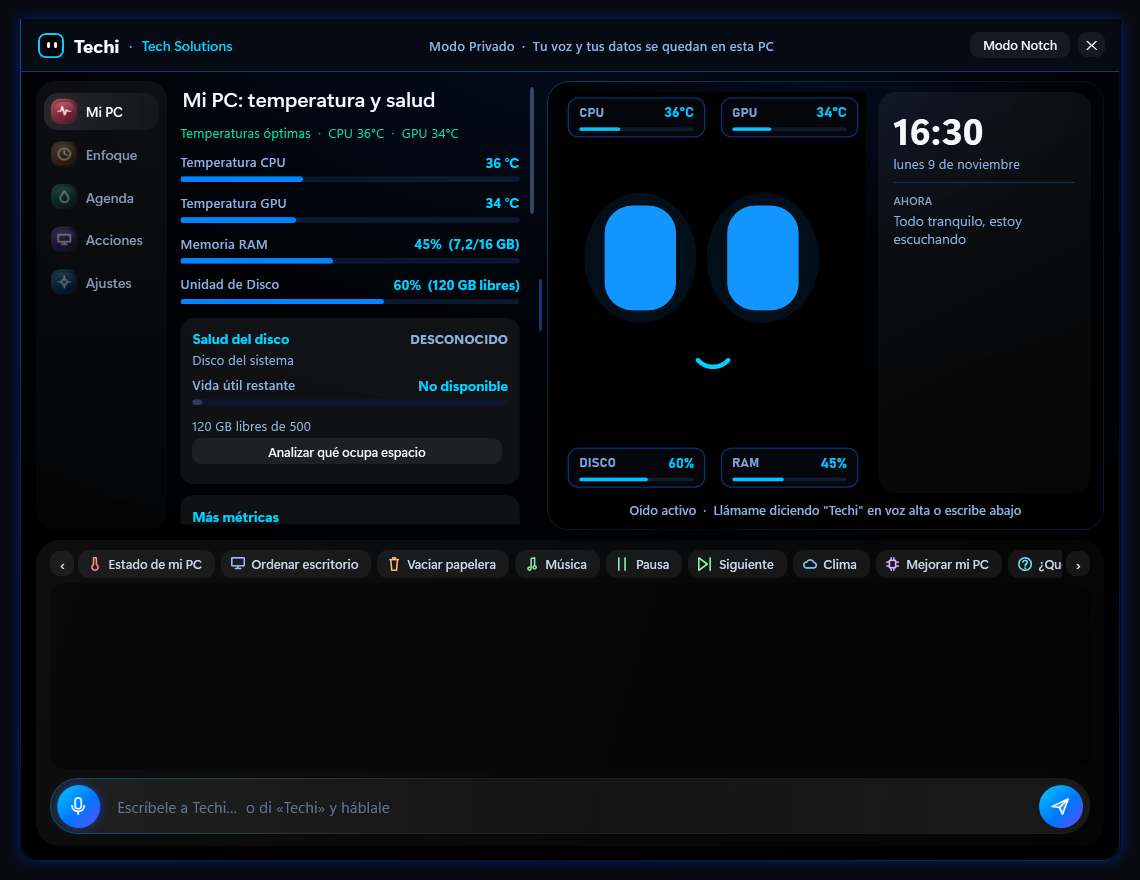
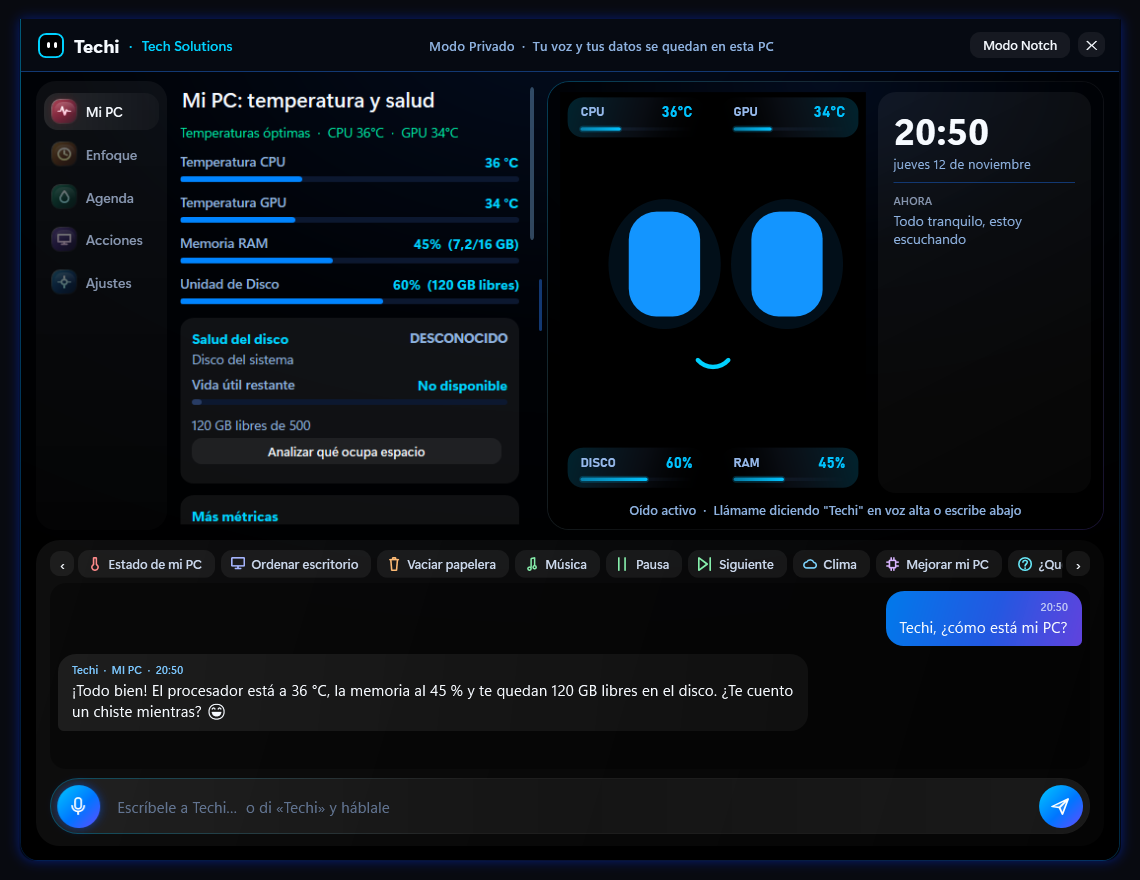
Add files via upload

diff --git a/index.html b/index.html
@@ -21,9 +21,11 @@
 }
 *{box-sizing:border-box;margin:0;padding:0}
 html{scroll-behavior:smooth}
+/* Los enlaces internos dejan espacio para la barra fija de arriba */
+section,[id^="dl-"]{scroll-margin-top:84px}
 body{background:var(--bg);color:var(--text);font-family:Inter,system-ui,Segoe UI,Roboto,sans-serif;line-height:1.6;overflow-x:hidden;-webkit-font-smoothing:antialiased}
 a{color:inherit;text-decoration:none}
-img{max-width:100%;display:block}
+img{max-width:100%;height:auto;display:block}
 .wrap{width:min(1140px,100% - 32px);margin-inline:auto}
 h1,h2,h3{font-family:Sora,Inter,sans-serif;line-height:1.12;letter-spacing:-.02em}
 h2{font-size:clamp(28px,4.4vw,46px);font-weight:800}
@@ -129,16 +131,47 @@ nav .wrap{display:flex;align-items:center;justify-content:space-between;height:6
 /* ---------- android ---------- */
 .android{display:grid;grid-template-columns:1fr 1fr;gap:48px;align-items:center}
 @media (max-width:820px){.android{grid-template-columns:1fr}}
-.phone{width:min(300px,80%);margin-inline:auto;aspect-ratio:9/19;border-radius:44px;background:#0b0f19;border:2px solid #1f2a44;position:relative;overflow:hidden;box-shadow:0 40px 100px rgba(30,144,255,.15)}
-.phone .island{position:absolute;top:14px;left:50%;transform:translateX(-50%);height:30px;width:96px;border-radius:20px;background:#000;display:flex;align-items:center;justify-content:center;gap:8px;transition:all .7s cubic-bezier(.2,.8,.2,1);overflow:hidden}
-.phone.open .island{width:86%;height:74px;border-radius:28px}
-.island .dot{width:10px;height:10px;border-radius:50%;background:#1a1a1a;border:2px solid #222;flex:none}
-.island .mini-eyes{display:flex;gap:6px}
-.island .mini-eyes i{width:9px;height:13px;border-radius:4px;background:var(--blue);animation:blink 4s infinite}
-.island .txt{font-size:12.5px;color:var(--soft);white-space:nowrap;opacity:0;transition:opacity .4s .3s}
-.phone.open .island .txt{opacity:1}
-.phone .screen{position:absolute;inset:110px 18px 30px;display:grid;gap:12px;align-content:start}
-.phone .screen div{height:54px;border-radius:14px;background:rgba(255,255,255,.04);border:1px solid var(--line)}
+/* v1.9.1 · Teléfono con la cápsula REAL de Techi en Android, medida sobre capturas del teléfono (716×1599):
+   cerrada = píldora negra bajo la barra de arriba (15 % del ancho) con los dos ojitos al centro;
+   abierta = 95 % del ancho y 31 % de alto: halos azul oscuro, ojos cian que escuchan con ondas, y el texto.
+   Todo se mide en «cqw» (porcentaje del ancho de la pantalla) para que las proporciones sean exactas. */
+.phone{width:min(300px,82%);margin-inline:auto;border-radius:46px;padding:9px;background:linear-gradient(160deg,#2a3550,#0d1220 40%,#1a2236);position:relative;box-shadow:0 40px 100px rgba(124,58,237,.22),inset 0 0 0 1px rgba(255,255,255,.08)}
+.phone .scr{position:relative;aspect-ratio:716/1599;border-radius:38px;overflow:hidden;container-type:inline-size;
+  background:linear-gradient(180deg,#8b57e8 0%,#b059e8 45%,#c057d7 100%)}
+.phone .sbar{position:absolute;top:0;left:0;right:0;height:11cqw;display:flex;align-items:center;justify-content:space-between;padding:0 6.7cqw;font:500 3.7cqw/1 Inter,system-ui,sans-serif;color:#fff}
+.phone .sicons{display:flex;align-items:center;gap:1.4cqw;transition:opacity .25s}
+.phone .sicons svg{height:3.6cqw;width:auto}
+.phone .bat{font:600 2.6cqw/1 Inter,sans-serif;color:#7c4ddb;background:#fff;border-radius:1.2cqw;padding:.4cqw 1.2cqw}
+.phone .micdot{position:absolute;right:6cqw;top:3.3cqw;width:4.6cqw;height:4.6cqw;border-radius:50%;background:#22c55e;display:grid;place-items:center;opacity:0;transition:opacity .25s}
+.phone .micdot svg{width:2.6cqw;height:2.6cqw}
+.phone.listen .micdot{opacity:1}
+.phone.listen .sicons{opacity:0}
+.isl{position:absolute;top:11cqw;left:50%;transform:translateX(-50%);width:15.1cqw;height:5.6cqw;border-radius:2.8cqw;background:#000;z-index:3;overflow:hidden;
+  transition:width .5s cubic-bezier(.2,.85,.25,1),height .5s cubic-bezier(.2,.85,.25,1),border-radius .5s}
+.phone.open .isl{width:95cqw;height:31.1cqw;border-radius:8.5cqw}
+.isl .se{position:absolute;top:50%;left:50%;transform:translate(-50%,-50%);display:flex;gap:1.25cqw;transition:opacity .2s}
+.isl .se i{width:1.6cqw;height:2.9cqw;border-radius:.8cqw;background:#1e90ff;animation:blink 4.8s infinite}
+.phone.listen .isl .se i{background:#1fd3ea}
+.phone.open .isl .se{opacity:0}
+.isl .big{position:absolute;inset:0;opacity:0;transition:opacity .25s}
+.phone.open .isl .big{opacity:1;transition-delay:.3s}
+.isl .bf{position:absolute;left:5.9cqw;top:7.8cqw;width:19.6cqw;height:18.2cqw}
+.isl .bf .e{fill:#1e90ff;transform-box:fill-box;transform-origin:center;animation:blink 4.8s infinite}
+.phone.listen .isl .bf .e{fill:#1fd3ea}
+.isl .bf .w{transform-box:fill-box;transform-origin:center;opacity:0}
+.phone.listen .isl .bf .w{opacity:1;animation:wave .7s ease-in-out infinite}
+.phone.listen .isl .bf .smile{opacity:0}
+.isl .bf .w:nth-child(2){animation-delay:.12s}.isl .bf .w:nth-child(3){animation-delay:.24s}.isl .bf .w:nth-child(4){animation-delay:.36s}.isl .bf .w:nth-child(5){animation-delay:.48s}
+@keyframes wave{0%,100%{transform:scaleY(.45)}50%{transform:scaleY(1.3)}}
+.isl .say{position:absolute;left:29.8cqw;right:5cqw;top:50%;transform:translateY(-50%);font:400 3.9cqw/1.3 Inter,system-ui,sans-serif;color:#fff;
+  display:-webkit-box;-webkit-line-clamp:3;-webkit-box-orient:vertical;overflow:hidden}
+/* pantalla de inicio (como la del teléfono: fondo, «Buscar» y el dock) */
+.phone .srch{position:absolute;left:50%;transform:translateX(-50%);bottom:29.9cqw;height:6.3cqw;padding:0 3.4cqw;border-radius:3.2cqw;background:rgba(255,255,255,.16);border:1px solid rgba(255,255,255,.22);display:flex;align-items:center;gap:1.6cqw;font:500 3.4cqw/1 Inter,sans-serif;color:#fff}
+.phone .srch svg{width:3.4cqw;height:3.4cqw}
+.phone .dock{position:absolute;left:4.6cqw;right:4.6cqw;bottom:6.4cqw;height:21.4cqw;border-radius:10.7cqw;background:rgba(255,255,255,.16);border:1px solid rgba(255,255,255,.2);display:flex;justify-content:space-around;align-items:center;padding:0 2.4cqw}
+.phone .dock .ap{width:13.4cqw;height:13.4cqw;border-radius:3.6cqw;background:rgba(255,255,255,.18);display:grid;place-items:center}
+.phone .dock .ap svg{width:9.6cqw;height:9.6cqw}
+.phone .navh{position:absolute;left:50%;transform:translateX(-50%);bottom:2.4cqw;width:33.5cqw;height:1.1cqw;border-radius:1cqw;background:rgba(255,255,255,.55)}
 .ashots{display:flex;justify-content:center;gap:22px;margin-top:56px;flex-wrap:wrap}
 .ashots img{width:min(250px,42vw);border-radius:28px;border:1px solid var(--line);box-shadow:0 30px 80px rgba(0,0,0,.5);transition:transform .4s}
 .ashots img:hover{transform:translateY(-6px)}
@@ -149,7 +182,9 @@ nav .wrap{display:flex;align-items:center;justify-content:space-between;height:6
 /* ---------- descargas ---------- */
 .dl{display:grid;grid-template-columns:1fr 1fr;gap:20px}
 @media (max-width:760px){.dl{grid-template-columns:1fr}}
-.dlc{background:linear-gradient(180deg,var(--card2),var(--bg2));border:1px solid var(--line);border-radius:26px;padding:32px;display:grid;gap:14px}
+.dlc{background:linear-gradient(180deg,var(--card2),var(--bg2));border:1px solid var(--line);border-radius:26px;padding:32px;display:grid;gap:14px;transition:border-color .4s,box-shadow .4s}
+/* Al llegar desde un botón «Descargar…», la tarjeta se ilumina un momento */
+.dlc.flash{border-color:rgba(34,211,238,.8);box-shadow:0 0 0 3px rgba(34,211,238,.25),0 20px 60px rgba(30,144,255,.3)}
 .dlc h3{font-size:24px}
 .dlc .ver{font-size:13px;color:var(--mute)}
 .dlc ul{display:grid;gap:6px;color:var(--soft);font-size:14px;padding-left:18px}
@@ -218,8 +253,8 @@ footer b{color:var(--text)}
       <h1 class="reveal d1" style="margin-top:14px">Tu compañero que <span class="grad">vive en tu PC</span> y en tu teléfono.</h1>
       <p class="lead reveal d2">Techi te escucha, te habla con voz natural, cuida tu computador, te recuerda las cosas, te pone música y te saca una risa. Y lo mejor: tu voz se entiende dentro de tu equipo, nunca se sube a internet.</p>
       <div class="cta reveal d3">
-        <a class="btn btn-main" href="#descargar">⬇ Descargar para Windows</a>
-        <a class="btn btn-ghost" href="#descargar">Descargar para Android</a>
+        <a class="btn btn-main" href="#dl-windows">⬇ Descargar para Windows</a>
+        <a class="btn btn-ghost" href="#dl-android">Descargar para Android</a>
       </div>
       <div class="badges reveal d4">
         <span class="badge"><b>Gratis</b> por ahora</span>
@@ -277,8 +312,8 @@ footer b{color:var(--text)}
       <p class="lead reveal d2">Una cápsula discreta arriba de la pantalla que se abre en una consola completa: temperatura de tu PC, agenda, acciones rápidas y chat.</p>
     </div>
     <div class="shots" style="grid-template-columns:1fr 1fr">
-      <img class="shot reveal" src="img/captura_mi_pc.png" alt="Pestaña Mi PC de Techi" loading="lazy">
-      <img class="shot reveal d1" src="img/captura_acciones.png" alt="Pestaña Acciones de Techi" loading="lazy">
+      <img class="shot reveal" src="img/captura_mi_pc.png" width="1140" height="880" alt="Pestaña Mi PC de Techi: temperaturas, memoria y disco, con una conversación en el chat" loading="lazy">
+      <img class="shot reveal d1" src="img/captura_agenda.png" width="1140" height="880" alt="Pestaña Agenda de Techi: agua del día y recordatorios" loading="lazy">
     </div>
   </div>
 </section>
@@ -286,9 +321,40 @@ footer b{color:var(--text)}
 <!-- ============ ANDROID ============ -->
 <section id="android">
   <div class="wrap android">
-    <div class="phone reveal" id="phone">
-      <div class="island"><span class="mini-eyes"><i></i><i></i></span><span class="txt">Te escucho… «llama a mamá»</span><span class="dot"></span></div>
-      <div class="screen"><div></div><div></div><div></div><div></div><div></div></div>
+    <div class="phone reveal" id="phone" aria-label="Techi en Android: la cápsula de arriba se abre, te escucha y responde">
+      <div class="scr">
+        <div class="sbar">
+          <span id="phTime">8:56</span>
+          <span class="sicons" aria-hidden="true">
+            <svg viewBox="0 0 24 18"><path d="M12 17.5 15.2 13.6a5 5 0 0 0-6.4 0z" fill="#fff"/><path d="M5.6 10.4a10 10 0 0 1 12.8 0l-1.9 2.3a7 7 0 0 0-9 0zM2.4 6.6a15 15 0 0 1 19.2 0l-1.9 2.3a12 12 0 0 0-15.4 0z" fill="#fff"/></svg>
+            <svg viewBox="0 0 24 18"><rect x="1" y="12" width="3.5" height="5" rx="1" fill="#fff"/><rect x="6.5" y="9" width="3.5" height="8" rx="1" fill="#fff"/><rect x="12" y="5.5" width="3.5" height="11.5" rx="1" fill="#fff" opacity=".55"/><rect x="17.5" y="2" width="3.5" height="15" rx="1" fill="#fff" opacity=".55"/></svg>
+            <span class="bat">58</span>
+          </span>
+        </div>
+        <span class="micdot" aria-hidden="true"><svg viewBox="0 0 24 24" fill="none" stroke="#fff" stroke-width="2.6" stroke-linecap="round"><path d="M12 3a3 3 0 0 0-3 3v6a3 3 0 0 0 6 0V6a3 3 0 0 0-3-3z"/><path d="M5 11a7 7 0 0 0 14 0M12 18v3"/></svg></span>
+        <div class="isl">
+          <span class="se"><i></i><i></i></span>
+          <div class="big">
+            <!-- Cara medida sobre la captura: halos, ojos y ondas en coordenadas de la pantalla de 716 px -->
+            <svg class="bf" viewBox="60 135 140 130" aria-hidden="true">
+              <ellipse cx="101.5" cy="193" rx="34.5" ry="52" fill="#07111d"/><ellipse cx="158.5" cy="193" rx="34.5" ry="52" fill="#07111d"/>
+              <rect class="e" x="83" y="155" width="37" height="76" rx="17"/><rect class="e" x="140" y="155" width="37" height="76" rx="17"/>
+              <path class="smile" d="M119 246 Q130 256 141 246" stroke="#1fd3ea" stroke-width="5" fill="none" stroke-linecap="round"/>
+              <g fill="#1fd3ea"><rect class="w" x="107.8" y="240" width="4.5" height="18" rx="2.25"/><rect class="w" x="117.8" y="240" width="4.5" height="18" rx="2.25"/><rect class="w" x="127.8" y="240" width="4.5" height="18" rx="2.25"/><rect class="w" x="137.8" y="240" width="4.5" height="18" rx="2.25"/><rect class="w" x="147.8" y="240" width="4.5" height="18" rx="2.25"/></g>
+            </svg>
+            <div class="say" id="phSay">Te escucho…</div>
+          </div>
+        </div>
+        <div class="srch" aria-hidden="true"><svg viewBox="0 0 24 24" fill="none" stroke="#fff" stroke-width="2.4" stroke-linecap="round"><circle cx="10.5" cy="10.5" r="6.5"/><path d="m20 20-4.8-4.8"/></svg>Buscar</div>
+        <div class="dock" aria-hidden="true">
+          <span class="ap"><svg viewBox="0 0 40 40"><circle cx="20" cy="20" r="15" fill="#3b82f6"/><path d="M5.5 20h29M20 5c5 4.5 5 25.5 0 30M20 5c-5 4.5-5 25.5 0 30" stroke="#fff" stroke-width="2.2" fill="none"/></svg></span>
+          <span class="ap"><svg viewBox="0 0 40 40"><path d="M13 7c1.6-.9 3.4 0 4.2 1.6l1.8 3.9c.6 1.3.3 2.8-.8 3.7l-1.6 1.3a17 17 0 0 0 6 6l1.3-1.6c.9-1.1 2.4-1.4 3.7-.8l3.9 1.8c1.6.8 2.5 2.6 1.6 4.2-1.5 2.9-4.7 4.4-7.8 3.6C17 28.6 11.4 23 9.3 15.1 8.5 12 10 8.6 13 7z" fill="#22c55e"/></svg></span>
+          <span class="ap"><svg viewBox="0 0 40 40"><circle cx="20" cy="20" r="15" fill="#111827"/><circle cx="20" cy="20" r="9" fill="#1e3a8a"/><circle cx="20" cy="20" r="5" fill="#0b1020"/><circle cx="17.5" cy="17.5" r="1.8" fill="#93c5fd"/></svg></span>
+          <span class="ap"><svg viewBox="0 0 40 40"><path d="M20 6c7.7 0 14 5.6 14 12.6S27.7 31.2 20 31.2c-1.6 0-3.2-.2-4.6-.7L8 33l2.1-6.2C7.6 24.4 6 21.6 6 18.6 6 11.6 12.3 6 20 6z" fill="#22c55e"/><path d="M14 17h12M14 21.5h8" stroke="#fff" stroke-width="2.2" stroke-linecap="round"/></svg></span>
+          <span class="ap"><svg viewBox="0 0 40 40"><g transform="translate(20 20)"><ellipse rx="5" ry="11" cy="-7" fill="#f43f5e" opacity=".9"/><ellipse rx="5" ry="11" cy="-7" fill="#f59e0b" opacity=".9" transform="rotate(72)"/><ellipse rx="5" ry="11" cy="-7" fill="#22c55e" opacity=".9" transform="rotate(144)"/><ellipse rx="5" ry="11" cy="-7" fill="#3b82f6" opacity=".9" transform="rotate(216)"/><ellipse rx="5" ry="11" cy="-7" fill="#a855f7" opacity=".9" transform="rotate(288)"/></g></svg></span>
+        </div>
+        <span class="navh" aria-hidden="true"></span>
+      </div>
     </div>
     <div>
       <span class="eyebrow reveal">Android</span>
@@ -303,10 +369,11 @@ footer b{color:var(--text)}
     </div>
   </div>
   <div class="wrap ashots">
-    <img class="reveal" src="img/android_capsula.jpg" alt="Techi en Android: la cápsula de la cámara abierta, escuchando, y el widget" loading="lazy" onerror="this.remove()">
-    <img class="reveal d1" src="img/android_inicio.jpg" alt="Techi en Android: pantalla principal con el estado del teléfono" loading="lazy" onerror="this.remove()">
-    <img class="reveal d2" src="img/android_agenda.jpg" alt="Techi en Android: agua del día y recordatorios" loading="lazy" onerror="this.remove()">
-    <img class="reveal d3" src="img/android_enfoque.jpg" alt="Techi en Android: pomodoro, temporizador y alarma" loading="lazy" onerror="this.remove()">
+    <img class="reveal" src="img/android_capsula_cerrada.jpg" width="716" height="1599" alt="Techi en Android: la pildorita de Techi arriba de la pantalla de inicio" loading="lazy">
+    <img class="reveal d1" src="img/android_capsula.jpg" width="716" height="1599" alt="Techi en Android: la cápsula abierta diciendo «Te escucho…»" loading="lazy">
+    <img class="reveal d2" src="img/android_inicio.jpg" width="716" height="1599" alt="Techi en Android: pantalla principal con el estado del teléfono" loading="lazy">
+    <img class="reveal d3" src="img/android_agenda.jpg" width="716" height="1599" alt="Techi en Android: agua del día y recordatorios" loading="lazy">
+    <img class="reveal d4" src="img/android_enfoque.jpg" width="716" height="1599" alt="Techi en Android: pomodoro, temporizador y alarma" loading="lazy">
   </div>
 </section>
 
@@ -319,14 +386,14 @@ footer b{color:var(--text)}
       <p class="lead reveal d2">Gratis. Se actualiza solo: cada versión nueva viene firmada por Tech Solutions y Techi revisa la firma antes de instalarla.</p>
     </div>
     <div class="dl">
-      <div class="dlc reveal">
+      <div class="dlc reveal" id="dl-windows">
         <h3>🖥 Windows</h3>
         <span class="ver" id="verWin">Windows 10 y 11</span>
         <ul><li>Descomprime el .zip y abre <b>Techi.exe</b>.</li><li>Funciona sin internet (clima y búsquedas lo usan).</li><li>Unos 350 MB; 8 GB de RAM recomendados.</li></ul>
         <a class="btn btn-main" id="dlWin" href="#">Descargar para Windows</a>
         <span class="note">Si Windows dice «protegió su PC»: «Más información» › «Ejecutar de todas formas». Pasa con programas nuevos sin firma de pago.</span>
       </div>
-      <div class="dlc reveal d1">
+      <div class="dlc reveal d1" id="dl-android">
         <h3>📱 Android</h3>
         <span class="ver" id="verAnd">Android 8 o superior</span>
         <ul><li>Abre el .apk descargado y toca <b>Instalar</b>.</li><li>Abre Techi y toca <b>Permitir</b> en cada ventana. ¡Listo!</li><li>Pesa unos 46 MB porque trae su propio oído.</li></ul>
@@ -478,13 +545,65 @@ const FEATS = [
 document.getElementById("feats").innerHTML = FEATS.map((f, i) =>
   `<div class="feat reveal d${i % 3 + 1}">${f[0]}<h3>${f[1]}</h3><p>${f[2]}</p><div class="ex">${f[3]}</div></div>`).join("");
 
+// ---------- Enlaces internos («Descargar gratis», «Descargar para Windows/Android»…) ----------
+// Llegan siempre a su destino: si algo de la página cambia de tamaño mientras baja (imágenes que terminan
+// de cargar), se corrige el destino hasta llegar. Si la persona toca o mueve la rueda, se respeta.
+let navCancel = false, navGen = 0;
+["wheel", "touchstart", "keydown"].forEach(ev => addEventListener(ev, () => { navCancel = true; }, { passive: true }));
+function goTo(id) {
+  const gen = ++navGen;   // un clic nuevo reemplaza la corrección del anterior
+  if (!id) { scrollTo({ top: 0, behavior: "smooth" }); history.replaceState(null, "", location.pathname + location.search); return; }
+  const el = document.getElementById(id);
+  if (!el) return;
+  const margin = parseFloat(getComputedStyle(el).scrollMarginTop) || 0;
+  const target = () => Math.max(0, el.getBoundingClientRect().top + scrollY - margin);
+  navCancel = false;
+  scrollTo({ top: target(), behavior: "smooth" });
+  let tries = 0;
+  const fix = () => {
+    if (navCancel || gen !== navGen || tries++ > 8) return;
+    if (Math.abs(el.getBoundingClientRect().top - margin) > 24) scrollTo({ top: target(), behavior: "smooth" });
+    setTimeout(fix, 450);
+  };
+  setTimeout(fix, 650);
+  history.replaceState(null, "", "#" + id);
+  if (el.classList.contains("dlc")) { el.classList.add("on", "flash"); setTimeout(() => el.classList.remove("flash"), 1800); }
+}
+document.querySelectorAll('a[href^="#"]').forEach(a => a.addEventListener("click", e => {
+  e.preventDefault();
+  goTo(a.getAttribute("href").slice(1));
+}));
+// Si alguien abre la página con un enlace como …/#dl-android
+if (location.hash.length > 1) addEventListener("load", () => goTo(decodeURIComponent(location.hash.slice(1))));
+
 // ---------- Aparición al bajar ----------
 const io = new IntersectionObserver(es => es.forEach(e => { if (e.isIntersecting) { e.target.classList.add("on"); io.unobserve(e.target); } }), { threshold: .14 });
 document.querySelectorAll(".reveal").forEach(el => io.observe(el));
 
-// ---------- Teléfono: la cápsula se abre y se cierra ----------
-const phone = document.getElementById("phone");
-setInterval(() => phone.classList.toggle("open"), 2600);
+// ---------- Teléfono: la cápsula se abre, escucha, responde y vuelve a ser la pildorita (como en Android) ----------
+const phone = document.getElementById("phone"), phSay = document.getElementById("phSay");
+const CHARLAS = [
+  ["«Llama a mamá»", "Llamando a mamá 📞"],
+  ["«¿Va a llover hoy?»", "Hoy no llueve: 19 °C y sol ☀"],
+  ["«Pon música»", "¡Dale! Tu música 🎵"],
+  ["«Cuéntame un chiste»", "¿El café más peligroso? ¡El ex-preso! 😄"]
+];
+let ci = 0;
+function charla() {
+  const [dices, responde] = CHARLAS[ci++ % CHARLAS.length];
+  const steps = [
+    [0,    () => { phSay.textContent = "Te escucho…"; phone.classList.add("listen", "open"); }],   // tocas la pildorita: se abre
+    [1900, () => { phSay.textContent = dices; }],                                                   // lo que dices
+    [3200, () => { phone.classList.remove("listen"); phSay.textContent = responde; }],             // Techi responde
+    [5600, () => phone.classList.remove("open")],                                                  // vuelve a la pildorita
+    [8200, charla]
+  ];
+  steps.forEach(([t, f]) => setTimeout(f, t));
+}
+const reloj = () => { const d = new Date(); document.getElementById("phTime").textContent = d.getHours() + ":" + String(d.getMinutes()).padStart(2, "0"); };
+reloj(); setInterval(reloj, 30000);
+if (matchMedia("(prefers-reduced-motion: reduce)").matches) phone.classList.add("open", "listen");
+else setTimeout(charla, 1600);
 
 // ---------- Burbuja de conversación ----------
 const lines = ["¡Hola! ¿Qué hacemos hoy?", "Tu procesador está a 36 °C: fresquito.", "¿Te pongo música relajante?", "Te recuerdo tomar agua en 20 minutos.", "¡Jajaja! Ese chiste estuvo bueno."];
